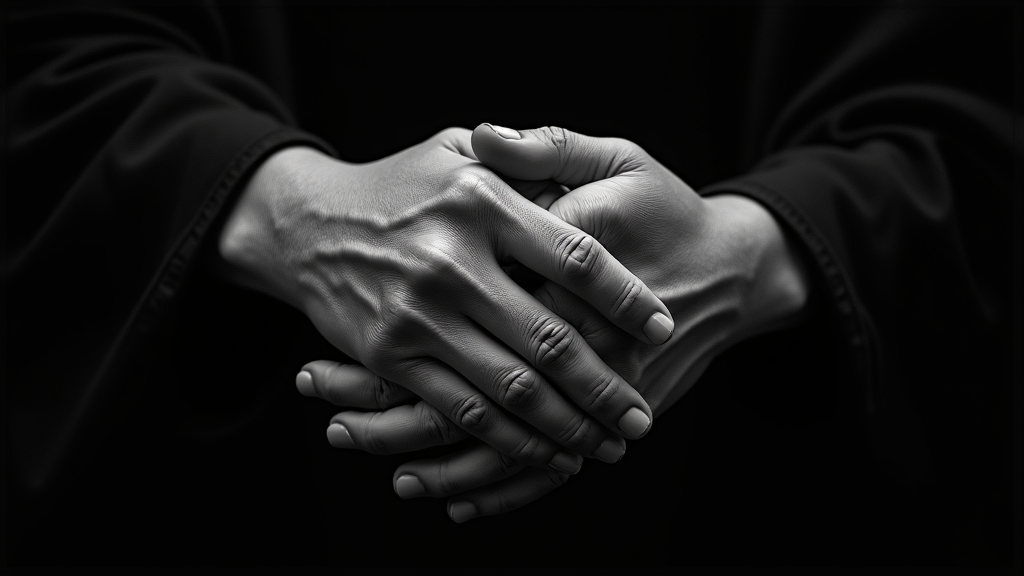
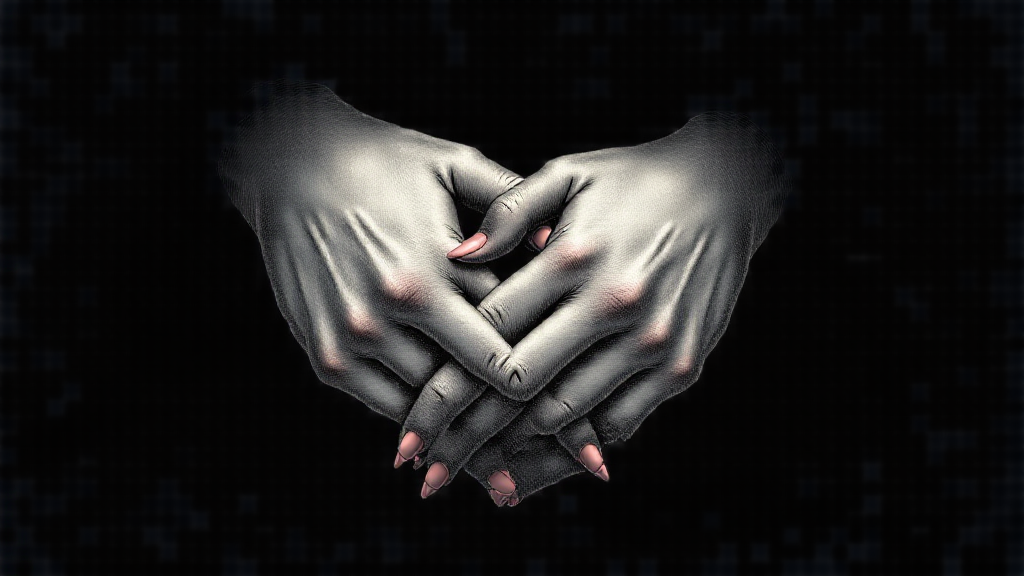
Add style anchoring via flux-general reference images for visual consistency
Switch from fal-ai/flux/dev to fal-ai/flux-general which supports
reference_image_url for style anchoring. The first panel generated
becomes the style anchor, and its CDN URL is passed to all subsequent
panels (strength 0.50). Also adds negative prompt for the anchor panel
and increases guidance_scale to 7.0. Note: negative_prompt (NAG) and
reference_image are incompatible on flux-general, so negative_prompt
is only used on the first panel.

Regenerated all 11 panels for scenes 1-2 with the new pipeline.

diff --git a/storywizard/agents/artist.py b/storywizard/agents/artist.py
@@ -52,6 +52,8 @@ class Artist(BaseAgent):
         generated = []
         # Track first appearance of each character for cross-panel consistency
         character_prompt_registry: dict[str, str] = {}
+        # Style anchor: CDN URL of the first generated panel (Flux only)
+        style_anchor_url: str | None = None
 
         total = sum(len(s.panels) for s in scripts)
         count = 0
@@ -60,8 +62,9 @@ class Artist(BaseAgent):
             for panel in script.panels:
                 count += 1
                 logger.info(
-                    "Generating panel %d/%d (scene %d, panel %d)",
+                    "Generating panel %d/%d (scene %d, panel %d)%s",
                     count, total, script.scene_number, panel.panel_number,
+                    " (style anchor)" if style_anchor_url is None else "",
                 )
                 prompt = self._craft_image_prompt(
                     panel, script, style_guide, character_prompt_registry
@@ -76,10 +79,16 @@ class Artist(BaseAgent):
                         + panel.panel_number
                     )
 
-                image_path = self._generate_image(
+                image_path, cdn_url = self._generate_image(
                     prompt, script.scene_number, panel.panel_number, output_dir,
-                    seed=seed,
+                    seed=seed, reference_image_url=style_anchor_url,
                 )
+
+                # First panel becomes the style anchor for all subsequent panels
+                if style_anchor_url is None and cdn_url is not None:
+                    style_anchor_url = cdn_url
+                    logger.info("Style anchor set: %s", cdn_url)
+
                 generated.append(
                     GeneratedPanel(
                         scene_number=script.scene_number,
@@ -167,15 +176,21 @@ class Artist(BaseAgent):
 
     def _generate_image(
         self, prompt: str, scene_num: int, panel_num: int, output_dir: Path,
-        *, seed: int | None = None,
-    ) -> Path:
-        """Generate an image using the configured backend."""
+        *, seed: int | None = None, reference_image_url: str | None = None,
+    ) -> tuple[Path, str | None]:
+        """Generate an image using the configured backend.
+
+        Returns (local_path, cdn_url). cdn_url is None for mock backend.
+        """
         filename = f"scene{scene_num:02d}_panel{panel_num:02d}"
 
         if self.config.image_backend == "mock":
-            return self._mock_generate(prompt, filename, output_dir, seed=seed)
+            return self._mock_generate(prompt, filename, output_dir, seed=seed), None
         elif self.config.image_backend == "flux":
-            return self._flux_generate(prompt, filename, output_dir, seed=seed)
+            return self._flux_generate(
+                prompt, filename, output_dir,
+                seed=seed, reference_image_url=reference_image_url,
+            )
         else:
             raise NotImplementedError(
                 f"Image backend '{self.config.image_backend}' not yet implemented. "
@@ -204,12 +219,15 @@ class Artist(BaseAgent):
 
     def _flux_generate(
         self, prompt: str, filename: str, output_dir: Path,
-        *, seed: int | None = None,
-    ) -> Path:
+        *, seed: int | None = None, reference_image_url: str | None = None,
+    ) -> tuple[Path, str]:
         """Generate an image using Flux via fal.ai API.
 
         Retries on transient failures with exponential backoff and validates
         that the downloaded image meets a minimum size threshold.
+
+        Returns (local_path, cdn_url) so the CDN URL can be used as a style
+        anchor for subsequent panels.
         """
         import fal_client
 
@@ -226,7 +244,11 @@ class Artist(BaseAgent):
         }
         if seed is not None:
             arguments["seed"] = seed
-        if self.config.flux_negative_prompt:
+        if reference_image_url:
+            # negative_prompt (NAG) is incompatible with reference_image on flux-general
+            arguments["reference_image_url"] = reference_image_url
+            arguments["reference_strength"] = self.config.flux_reference_strength
+        elif self.config.flux_negative_prompt:
             arguments["negative_prompt"] = self.config.flux_negative_prompt
 
         last_error = None
@@ -259,7 +281,7 @@ class Artist(BaseAgent):
                 logger.info(
                     "Flux image saved: %s (%d bytes)", path, len(response.content)
                 )
-                return path
+                return path, image_url
 
             except Exception as e:
                 last_error = e

diff --git a/scripts/generate_test_panels.py b/scripts/generate_test_panels.py
@@ -27,10 +27,16 @@ NOVEL_JSON = DATA_DIR / "novel.json"
 SCENES = [1, 2]
 
 # Flux settings (match pipeline defaults from config.py)
-FLUX_MODEL = "fal-ai/flux/dev"
+FLUX_MODEL = "fal-ai/flux-general"
 FLUX_ASPECT = "landscape_16_9"
-FLUX_GUIDANCE_SCALE = 3.5
+FLUX_GUIDANCE_SCALE = 7.0
 FLUX_INFERENCE_STEPS = 28
+FLUX_REFERENCE_STRENGTH = 0.50
+FLUX_NEGATIVE_PROMPT = (
+    "photograph, photo, photorealistic, 3D render, CGI, anime, manga, "
+    "cartoon, cel-shaded, flat color, vector art, stock photo, film still, "
+    "movie screenshot"
+)
 BASE_SEED = 42  # seed = 42 + scene*100 + panel
 
 MAX_RETRIES = 3
@@ -53,8 +59,10 @@ def extract_prompt(text: str) -> str:
     return text.strip()
 
 
-def generate_image(prompt: str, seed: int) -> bytes:
-    """Call fal.ai Flux and return the PNG bytes."""
+def generate_image(
+    prompt: str, seed: int, *, reference_image_url: str | None = None,
+) -> tuple[bytes, str]:
+    """Call fal.ai Flux and return (PNG bytes, CDN URL)."""
     import fal_client
 
     arguments = {
@@ -66,6 +74,12 @@ def generate_image(prompt: str, seed: int) -> bytes:
         "num_inference_steps": FLUX_INFERENCE_STEPS,
         "seed": seed,
     }
+    if reference_image_url:
+        # negative_prompt (NAG) is incompatible with reference_image on flux-general
+        arguments["reference_image_url"] = reference_image_url
+        arguments["reference_strength"] = FLUX_REFERENCE_STRENGTH
+    else:
+        arguments["negative_prompt"] = FLUX_NEGATIVE_PROMPT
 
     last_error = None
     for attempt in range(1, MAX_RETRIES + 1):
@@ -81,7 +95,7 @@ def generate_image(prompt: str, seed: int) -> bytes:
                     f"Image too small ({len(response.content)} bytes), likely corrupted"
                 )
 
-            return response.content
+            return response.content, image_url
 
         except Exception as e:
             last_error = e
@@ -120,21 +134,30 @@ def main() -> None:
     print()
 
     generated_files = []
+    style_anchor_url: str | None = None
+
     for scene_num, panel_num, prompt_file in panels_to_generate:
         seed = BASE_SEED + scene_num * 100 + panel_num
         png_path = prompt_file.parent / f"scene{scene_num:02d}_panel{panel_num:02d}.png"
 
+        ref_label = " (style anchor)" if style_anchor_url is None else ""
         print(f"[{len(generated_files)+1}/{len(panels_to_generate)}] "
-              f"scene {scene_num}, panel {panel_num} (seed={seed})")
+              f"scene {scene_num}, panel {panel_num} (seed={seed}){ref_label}")
 
         # Extract prompt
         raw_text = prompt_file.read_text(encoding="utf-8")
         prompt = extract_prompt(raw_text)
 
-        # Generate image
-        png_bytes = generate_image(prompt, seed)
+        # Generate image — first panel becomes the style anchor
+        png_bytes, cdn_url = generate_image(
+            prompt, seed, reference_image_url=style_anchor_url,
+        )
         png_path.write_bytes(png_bytes)
         print(f"  Saved: {png_path.name} ({len(png_bytes):,} bytes)")
+
+        if style_anchor_url is None:
+            style_anchor_url = cdn_url
+            print(f"  Style anchor URL: {cdn_url}")
 
         generated_files.append((scene_num, panel_num, png_path))
 

diff --git a/storywizard/config.py b/storywizard/config.py
@@ -20,12 +20,17 @@ class PipelineConfig:
     )
 
     # Flux (via fal.ai) settings
-    flux_model: str = "fal-ai/flux/dev"
+    flux_model: str = "fal-ai/flux-general"
     flux_aspect_ratio: str = "landscape_16_9"
     flux_seed: int | None = None  # None = random; set for reproducibility
-    flux_guidance_scale: float = 3.5  # 1.0-20.0; higher = more prompt-adherent
+    flux_guidance_scale: float = 7.0  # 1.0-20.0; higher = more prompt-adherent
     flux_num_inference_steps: int = 28  # 1-100; higher = better quality
-    flux_negative_prompt: str = ""  # Excluded concepts
+    flux_negative_prompt: str = (
+        "photograph, photo, photorealistic, 3D render, CGI, anime, manga, "
+        "cartoon, cel-shaded, flat color, vector art, stock photo, film still, "
+        "movie screenshot"
+    )
+    flux_reference_strength: float = 0.50  # 0.0-1.0; style anchor strength
 
     # Pipeline tuning
     max_scenes: int = 15
@@ -73,6 +78,11 @@ class PipelineConfig:
         if not (1 <= self.flux_num_inference_steps <= 100):
             errors.append(
                 f"flux_num_inference_steps must be between 1 and 100, got {self.flux_num_inference_steps}."
+            )
+
+        if not (0.0 <= self.flux_reference_strength <= 1.0):
+            errors.append(
+                f"flux_reference_strength must be between 0.0 and 1.0, got {self.flux_reference_strength}."
             )
 
         return errors

diff --git a/tests/test_config.py b/tests/test_config.py
@@ -101,6 +101,7 @@ class TestPipelineConfigValidation:
         assert config.output_dir == "output"
         assert config.stories_dir == "stories"
         assert config.flux_seed is None
-        assert config.flux_guidance_scale == 3.5
+        assert config.flux_guidance_scale == 7.0
         assert config.flux_num_inference_steps == 28
-        assert config.flux_negative_prompt == ""
+        assert config.flux_negative_prompt != ""
+        assert config.flux_reference_strength == 0.50
